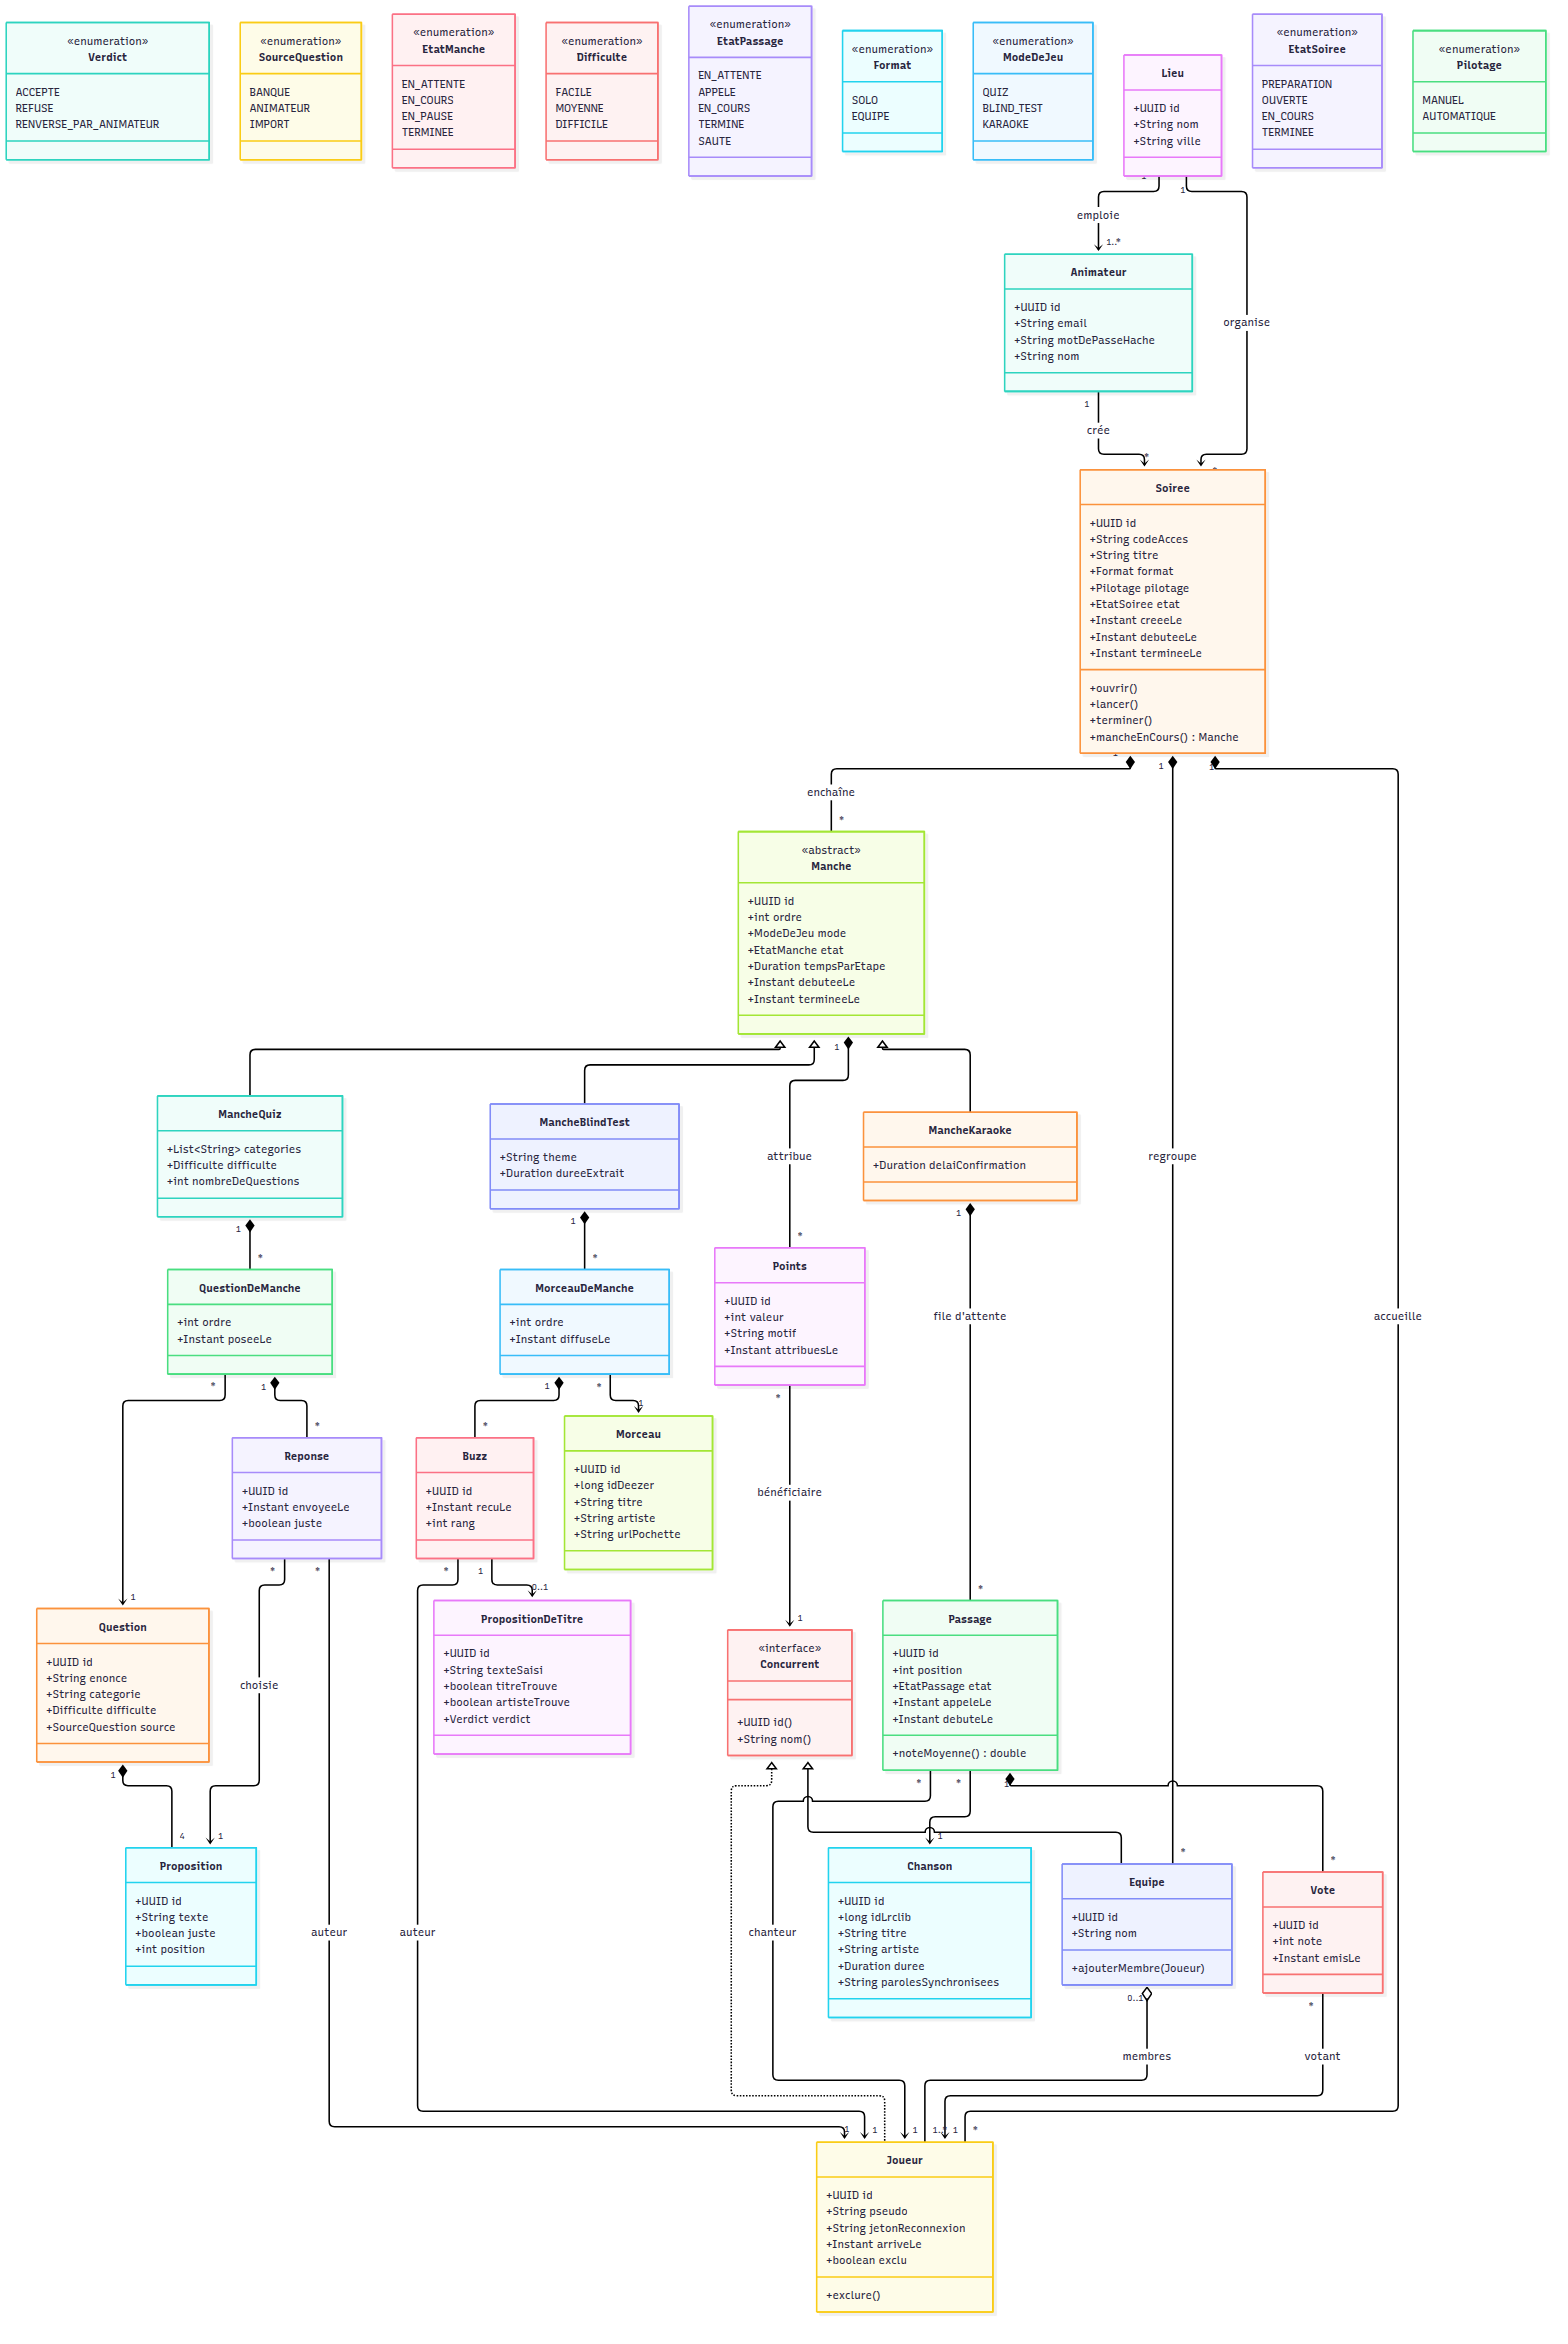
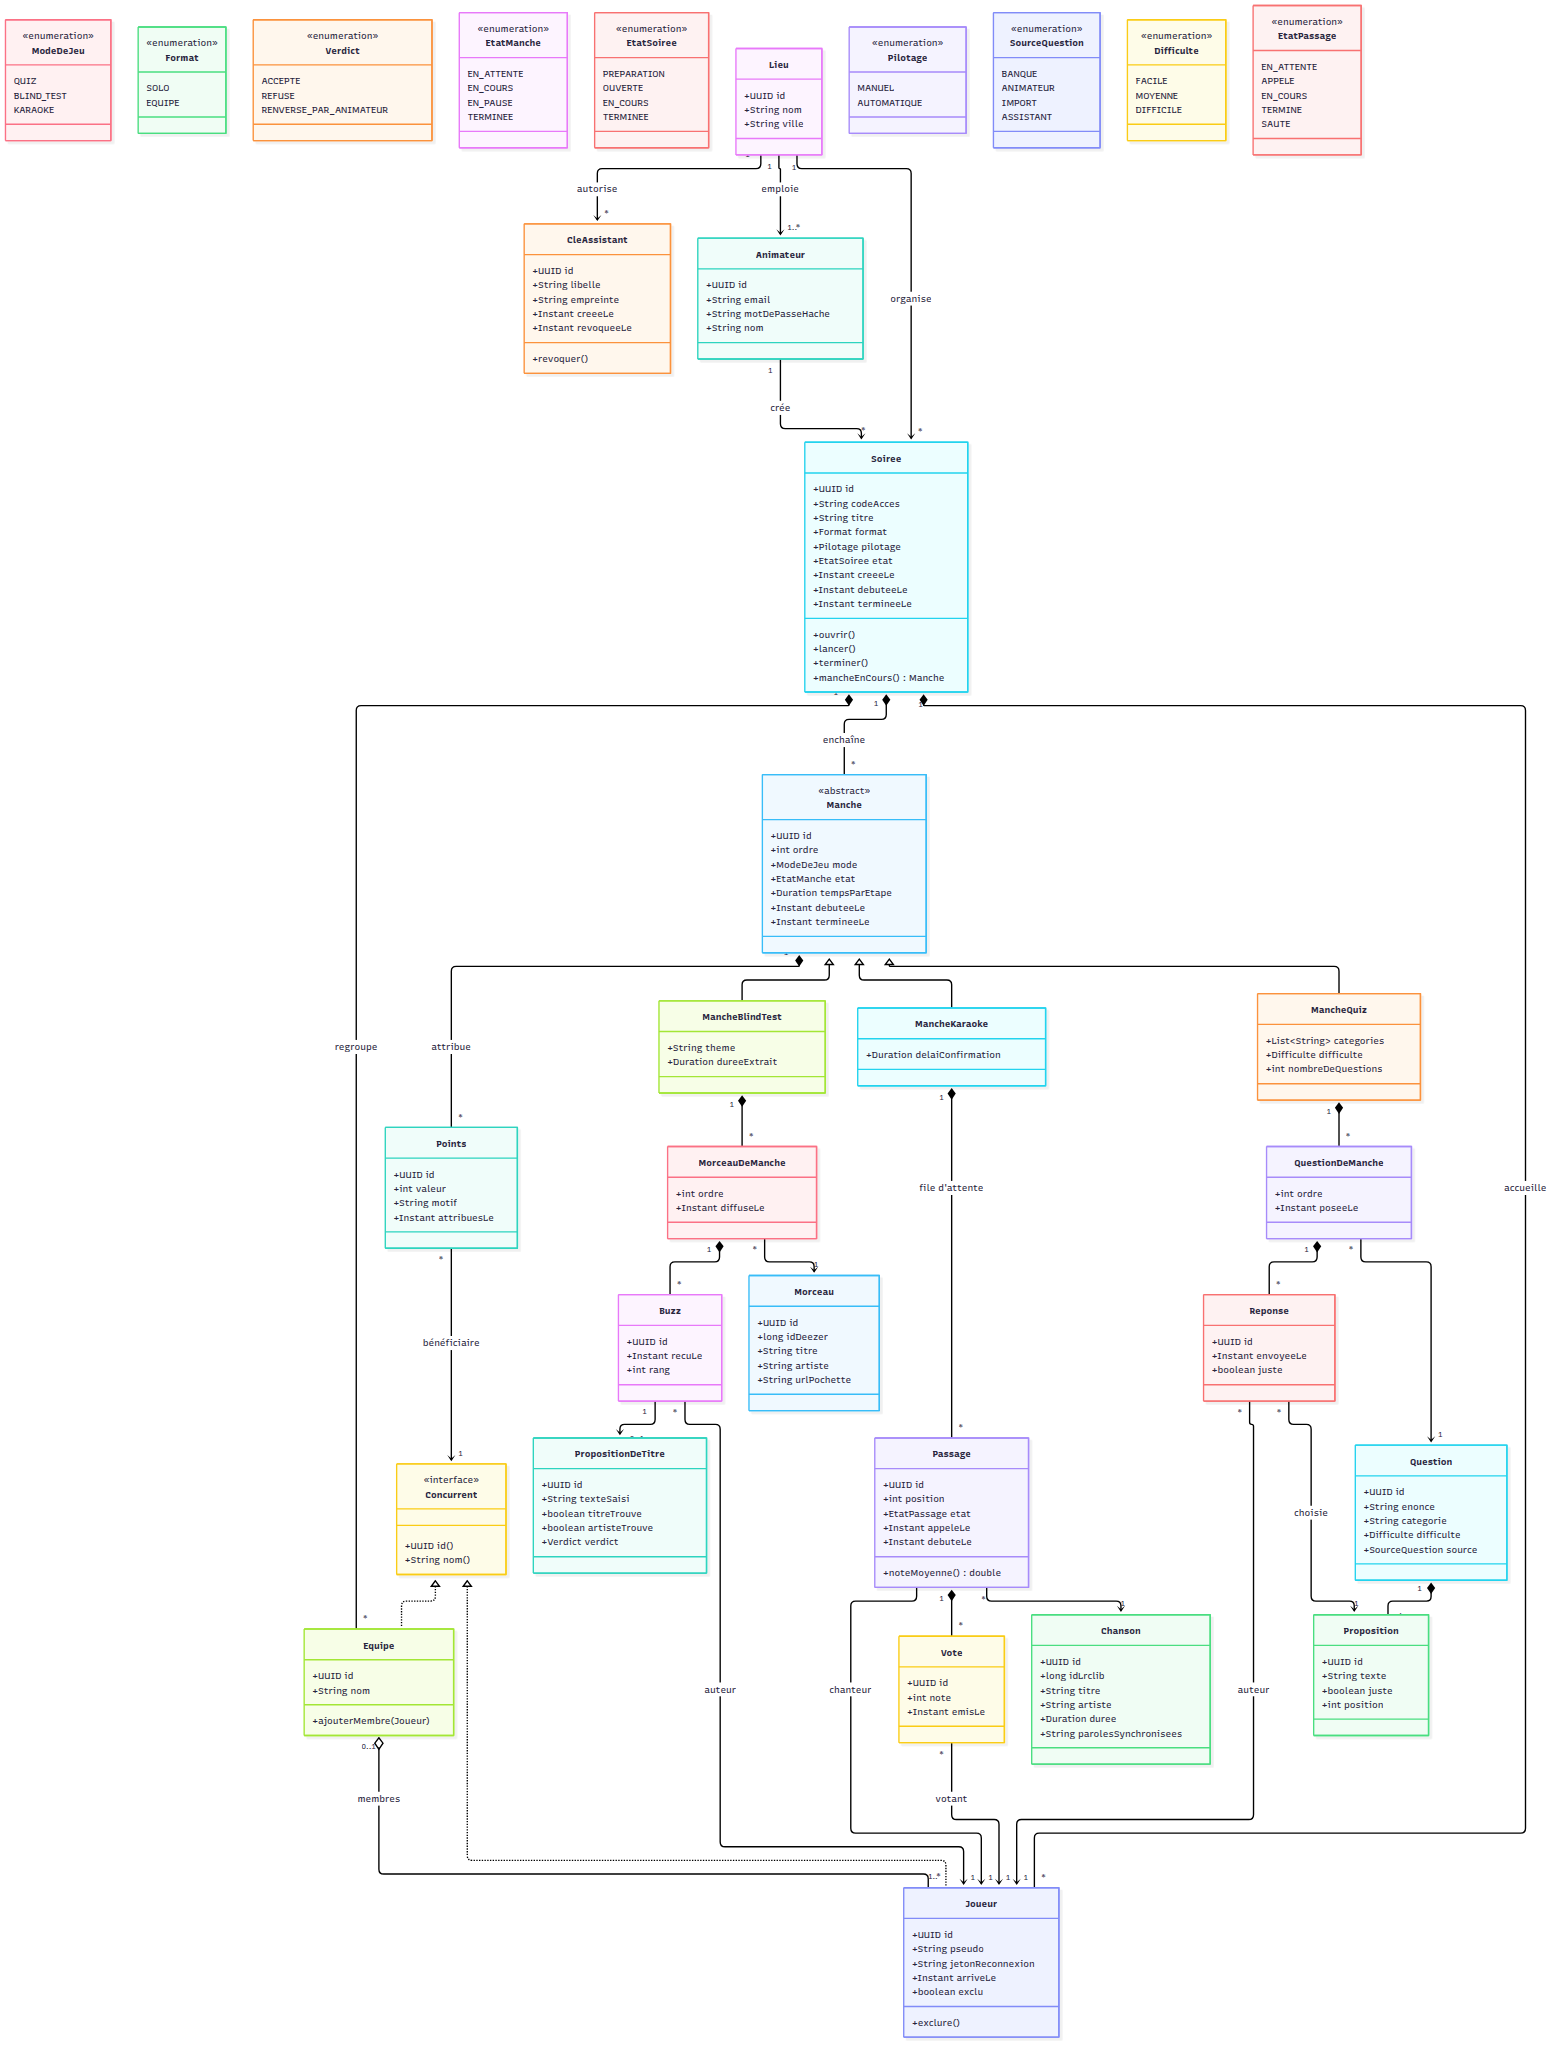
docs(conception): ajouter l'Assistant aux diagrammes de classes
Claude-Session: https://claude.ai/code/session_012KVS2iX27rUKz9pM6JWLPt

diff --git a/docs/conception/diagrammes-de-classes.md b/docs/conception/diagrammes-de-classes.md
@@ -21,6 +21,14 @@ classDiagram
         +String motDePasseHache
         +String nom
     }
+    class CleAssistant {
+        +UUID id
+        +String libelle
+        +String empreinte
+        +Instant creeeLe
+        +Instant revoqueeLe
+        +revoquer()
+    }
     class Soiree {
         +UUID id
         +String codeAcces
@@ -141,6 +149,7 @@ classDiagram
         BANQUE
         ANIMATEUR
         IMPORT
+        ASSISTANT
     }
 
     class MancheBlindTest {
@@ -212,6 +221,7 @@ classDiagram
 
     Lieu "1" --> "1..*" Animateur : emploie
     Lieu "1" --> "*" Soiree : organise
+    Lieu "1" --> "*" CleAssistant : autorise
     Animateur "1" --> "*" Soiree : crée
     Soiree "1" *-- "*" Manche : enchaîne
     Soiree "1" *-- "*" Joueur : accueille
@@ -353,6 +363,15 @@ classDiagram
         +boolean estAcceptable(String pseudo)
     }
 
+    class OutilsAssistant {
+        +List~Soiree~ listerSoirees()
+        +Soiree creerSoiree(titre, Format, Pilotage)
+        +ajouterManche(UUID soireeId, ModeDeJeu, ReglagesDeManche)
+        +ajouterQuestions(UUID mancheId, List~Question~)
+        +List~Morceau~ chercherMorceaux(String requete)
+        +ajouterMorceaux(UUID mancheId, List~Long~ idsDeezer)
+        +List~LigneClassement~ consulterClassement(UUID soireeId)
+    }
     class DeroulementQuiz
     class DeroulementBlindTest
     class DeroulementKaraoke
@@ -402,6 +421,9 @@ classDiagram
     ServiceSoiree --> FiltreDePseudos
     ServiceClassement ..> ServiceEquipe
 
+    OutilsAssistant --> ServiceSoiree
+    OutilsAssistant --> CatalogueMusical
+    OutilsAssistant --> ServiceClassement
     DeroulementQuiz --> SourceDeQuestions
     DeroulementBlindTest --> CatalogueMusical
     DeroulementBlindTest --> CorrecteurTolerant
